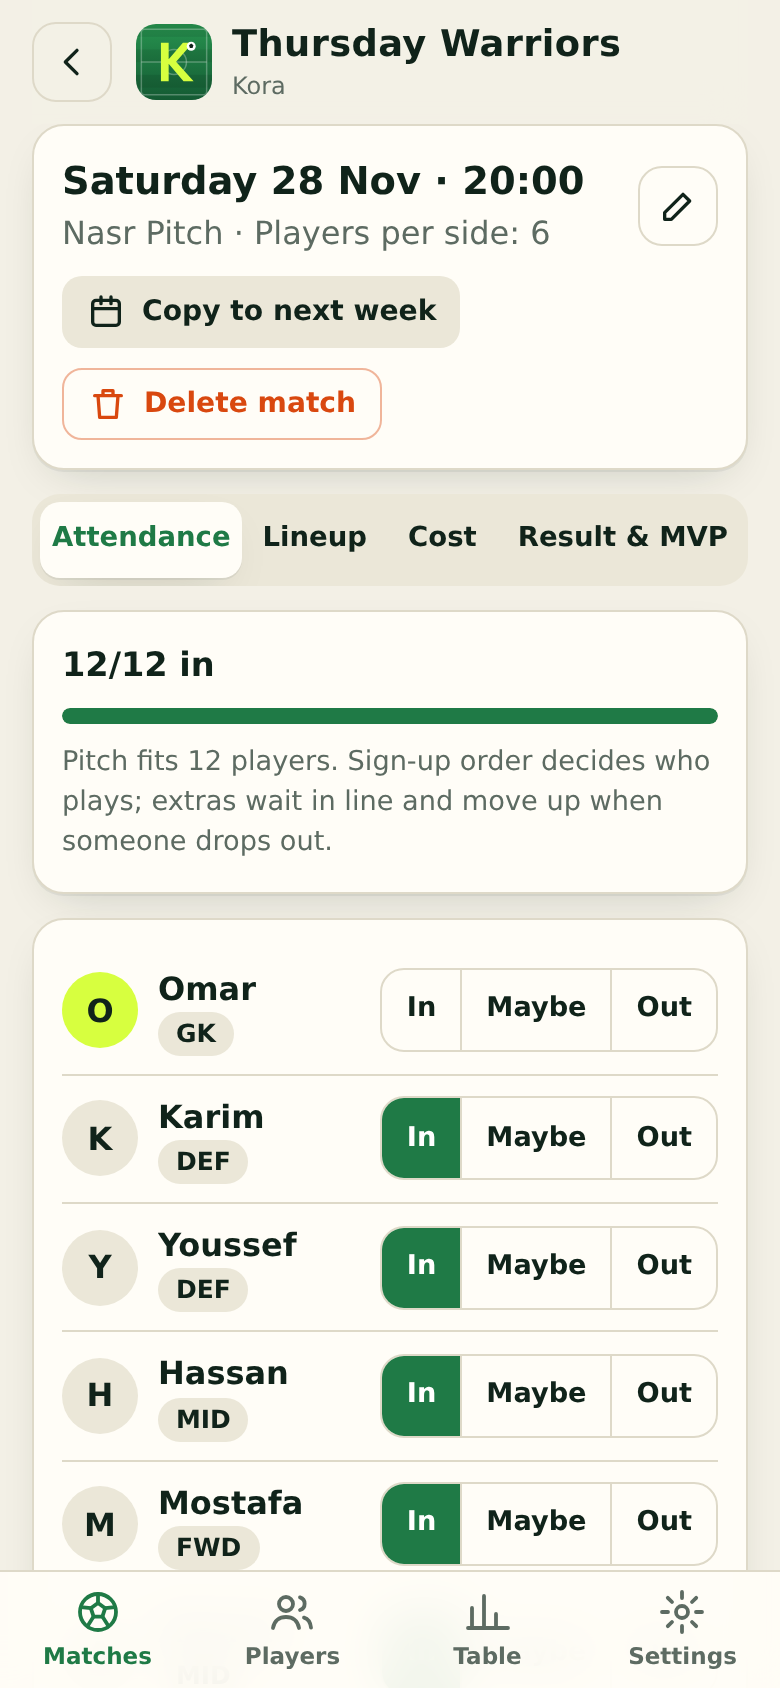
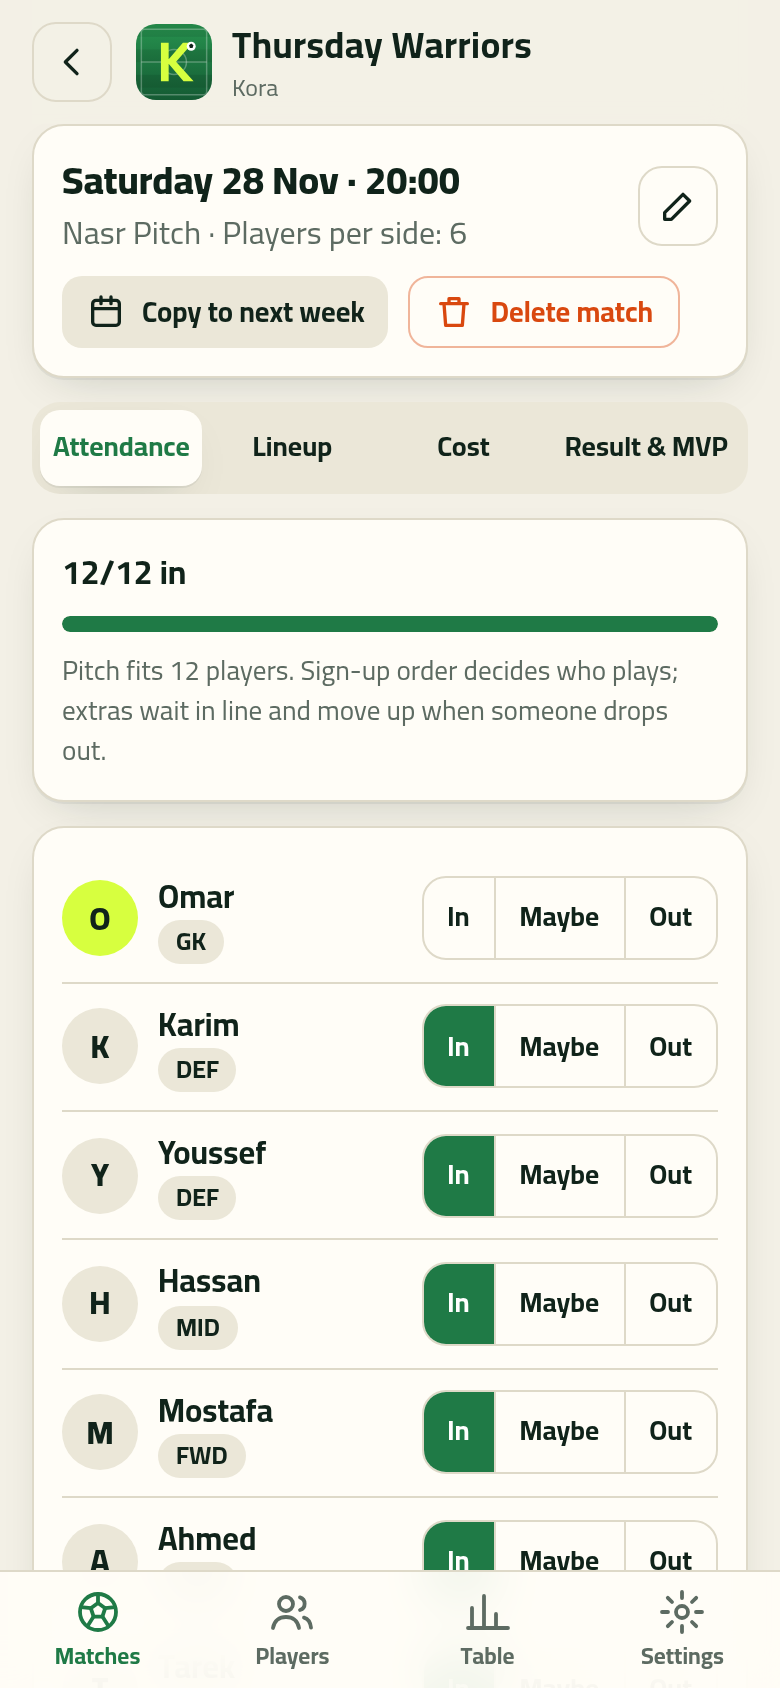
Round 2: self-hosted Cairo fonts, bad-input hardening, import sanitising, WhatsApp/CSV fixes, tests, fresh screenshots

Changed region(s): [[0.0308, 0.0924, 0.9538, 1.0], [0.3077, 0.0, 0.8, 0.0616], [0.3077, 0.955, 0.4308, 0.9858]]

diff --git a/docs/app.js b/docs/app.js
@@ -41,6 +41,7 @@
     table: '<path d="M4 20V10M10 20V4M16 20v-7M22 20H2"/>',
     gear: '<circle cx="12" cy="12" r="3"/><path d="M12 2v3M12 19v3M2 12h3M19 12h3M4.9 4.9L7 7M17 17l2.1 2.1M4.9 19.1L7 17M17 7l2.1-2.1"/>',
     plus: '<path d="M12 5v14M5 12h14"/>', back: '<path d="M15 5l-7 7 7 7"/>', trash: '<path d="M4 7h16M9 7V4h6v3M6 7l1 13h10l1-13"/>',
+    share: '<circle cx="6" cy="12" r="2.5"/><circle cx="18" cy="6" r="2.5"/><circle cx="18" cy="18" r="2.5"/><path d="M8.2 11l7.6-4M8.2 13l7.6 4"/>',
     edit: '<path d="M4 20h4L19 9l-4-4L4 16z"/>', copy: '<rect x="8" y="8" width="12" height="12" rx="2"/><path d="M16 8V5a1 1 0 00-1-1H5a1 1 0 00-1 1v10a1 1 0 001 1h3"/>',
     swap: '<path d="M7 7h12l-3-3M17 17H5l3 3"/>', check: '<path d="M5 12l5 5 9-10"/>', cal: '<rect x="4" y="5" width="16" height="15" rx="2"/><path d="M4 10h16M9 3v4M15 3v4"/>'
   };
@@ -57,6 +58,11 @@
     el.textContent = msg; el.hidden = false;
     clearTimeout(toast._t);
     toast._t = setTimeout(function () { el.hidden = true; }, 2600);
+  }
+  function shareWa(text) {
+    const url = 'https://wa.me/?text=' + encodeURIComponent(text);
+    window.__lastWa = url;
+    const w = window.open(url, '_blank', 'noopener'); if (!w) location.href = url;
   }
   function copyText(text) {
     const done = function () { toast(t('copied')); };
@@ -173,7 +179,7 @@
       '<div class="row">' + (a.waitlist.length ? '<span class="chip warn">' + t('waitlistN', { n: a.waitlist.length }) + '</span>' : '') + (a.maybe.length ? '<span class="chip">' + t('maybeN', { n: a.maybe.length }) + '</span>' : '') + '</div></div>' +
       '<div class="bar" style="margin:10px 0"><i style="width:' + pct + '%"></i></div><p class="muted small" style="margin:0">' + t('capacityNote', { cap: a.capacity }) + '</p></div>' +
       '<div class="card">' + (S.players.length ? '<div class="plist">' + rows + guests + '</div>' : '<p class="muted">' + t('noPlayers') + '</p><a class="btn" href="#/players">' + t('addPlayer') + '</a>') + '</div>' +
-      '<div class="row wrap"><button class="btn soft" data-act="guest-add" data-id="' + m.id + '">' + ic('plus') + t('addGuest') + '</button><button class="btn ghost" data-act="copy-invite" data-id="' + m.id + '">' + ic('copy') + t('copyInvite') + '</button></div>';
+      '<div class="row wrap"><button class="btn soft" data-act="guest-add" data-id="' + m.id + '">' + ic('plus') + t('addGuest') + '</button><button class="btn ghost" data-act="copy-invite" data-id="' + m.id + '">' + ic('copy') + t('copyInvite') + '</button><button class="btn ghost" data-act="wa-invite" data-id="' + m.id + '">' + ic('share') + t('sendWa') + '</button></div>';
   }
 
   function teamName(k) { return k === 'A' ? t('teamA') : t('teamB'); }
@@ -222,7 +228,7 @@
       return '<div class="card"><div class="row between"><div class="row"><span class="tdot" style="background:' + (k === 'A' ? '#fff' : '#ffb703') + '"></span><h2 style="margin:0">' + teamName(k) + '</h2></div><span class="chip">' + t('total', { n: strength(k) }) + '</span></div>' +
         (L.hasGK ? '' : '<p class="muted small" style="margin:6px 0 0">' + t('noKeeper') + '</p>') + '<div class="plist" style="margin-top:6px">' + rows + '</div></div>';
     };
-    return '<div class="pitchwrap">' + pitchSvg(m) + '</div><div class="row wrap" style="margin-bottom:12px"><button class="btn" data-act="teams-reshuffle" data-id="' + m.id + '">' + ic('swap') + t('reshuffle') + '</button><button class="btn ghost" data-act="copy-lineup" data-id="' + m.id + '">' + ic('copy') + t('copyLineup') + '</button></div>' +
+    return '<div class="pitchwrap">' + pitchSvg(m) + '</div><div class="row wrap" style="margin-bottom:12px"><button class="btn" data-act="teams-reshuffle" data-id="' + m.id + '">' + ic('swap') + t('reshuffle') + '</button><button class="btn ghost" data-act="copy-lineup" data-id="' + m.id + '">' + ic('copy') + t('copyLineup') + '</button><button class="btn ghost" data-act="wa-lineup" data-id="' + m.id + '">' + ic('share') + t('sendWa') + '</button></div>' +
       '<p class="muted small">' + t('teamsHelp') + '</p><div class="teams">' + card('A') + card('B') + '</div>';
   }
 
@@ -252,7 +258,7 @@
       '<div class="card"><div class="row between"><div><div class="muted small">' + t('totalCost') + '</div><b style="font-size:1.4rem">' + money(tot) + '</b></div><div style="text-align:end"><div class="muted small">' + t('perHead') + '</div><b style="font-size:1.4rem">' + (sh.ids.length ? money(sh.split.per[0]) : '—') + '</b></div></div>' +
       (sh.split.surplus ? '<p class="muted small" style="margin:8px 0 0">' + t('surplus', { n: money(sh.split.surplus) }) + '</p>' : '') + '</div>' +
       '<div class="card">' + (sh.ids.length ? '<div class="row between small" style="margin-bottom:6px"><b>' + t('collected', { a: money(sh.paid), b: money(sh.split.collected) }) + '</b><span class="chip ' + (sh.outstanding ? 'warn' : 'ok') + '">' + (sh.outstanding ? t('outstanding', { n: money(sh.outstanding) }) : t('allPaid')) + '</span></div><div class="bar"><i style="width:' + pct + '%"></i></div><div class="plist" style="margin-top:8px">' + rows + '</div>' +
-        '<button class="btn ghost" style="margin-top:10px" data-act="copy-pay" data-id="' + m.id + '"' + (sh.outstanding ? '' : ' disabled') + '>' + ic('copy') + t('copyPay') + '</button>' : '<p class="muted">' + t('noParticipants') + '</p>') + '</div>';
+        '<button class="btn ghost" style="margin-top:10px" data-act="copy-pay" data-id="' + m.id + '"' + (sh.outstanding ? '' : ' disabled') + '>' + ic('copy') + t('copyPay') + '</button><button class="btn ghost" data-act="wa-pay" data-id="' + m.id + '"' + (sh.outstanding ? '' : ' disabled') + '>' + ic('share') + t('sendWa') + '</button>' : '<p class="muted">' + t('noParticipants') + '</p>') + '</div>';
   }
 
   function secResult(m) {
@@ -439,6 +445,9 @@
     rsvp: function (d) { const m = currentMatch(); const cur = m.rsvp[d.id]; C.setRsvp(m, d.id, cur === d.v ? 'none' : d.v); rerender(); },
     'guest-add': function (d) { guestForm(getMatch(d.id)); },
     'guest-del': function (d) { C.removeGuest(currentMatch(), d.id); rerender(); },
+    'wa-invite': function (d) { shareWa(inviteText(getMatch(d.id))); },
+    'wa-lineup': function (d) { shareWa(lineupText(getMatch(d.id))); },
+    'wa-pay': function (d) { shareWa(payText(getMatch(d.id))); },
     'copy-invite': function (d) { copyText(inviteText(getMatch(d.id))); },
     'teams-make': function (d) { C.autoTeams(getMatch(d.id), S, false); rerender(); },
     'teams-reshuffle': function (d) { C.autoTeams(getMatch(d.id), S, true); rerender(); },

diff --git a/docs/i18n.js b/docs/i18n.js
@@ -12,7 +12,7 @@ window.KORA_I18N = {
     rsvpIn: 'In', rsvpMaybe: 'Maybe', rsvpOut: 'Out', rsvpNone: 'No reply',
     waitlist: 'Waitlist #{n}', addGuest: 'Add guest', guestName: 'Guest name', guest: 'Guest', removeGuest: 'Remove guest',
     capacityNote: 'Pitch fits {cap} players. Sign-up order decides who plays; extras wait in line and move up when someone drops out.',
-    copyInvite: 'Copy invite message', copied: 'Copied', copyFailed: 'Could not copy. Select the text manually.',
+    copyInvite: 'Copy invite message', sendWa: 'Send on WhatsApp', copied: 'Copied', copyFailed: 'Could not copy. Select the text manually.',
     inviteMsg: '⚽ {group}football on {date} at {time}{venue}\nPitch: {cost} per player (est.)\nReply IN / OUT. {cap} spots, first come first served.',
     needPlayers: 'At least 2 confirmed players are needed to make teams.', makeTeams: 'Make balanced teams', reshuffle: 'Reshuffle', 
     teamA: 'White', teamB: 'Amber', total: 'Strength {n}', moveTeam: 'Move to the other team', noKeeper: 'No keeper', 
@@ -57,7 +57,7 @@ window.KORA_I18N = {
     rsvpIn: 'جاي', rsvpMaybe: 'يمكن', rsvpOut: 'مش جاي', rsvpNone: 'لسه ماردّش',
     waitlist: 'انتظار رقم {n}', addGuest: 'ضيف جديد', guestName: 'اسم الضيف', guest: 'ضيف', removeGuest: 'شيل الضيف',
     capacityNote: 'الملعب بيشيل {cap} لاعب. الأسبق في التسجيل بيلعب، والباقي في الانتظار ويدخل لو حد انسحب.',
-    copyInvite: 'انسخ رسالة الدعوة', copied: 'اتنسخ', copyFailed: 'معرفتش أنسخ. حدّد النص بإيدك.',
+    copyInvite: 'انسخ رسالة الدعوة', sendWa: 'ابعت على واتساب', copied: 'اتنسخ', copyFailed: 'معرفتش أنسخ. حدّد النص بإيدك.',
     inviteMsg: '⚽ {group}كورة يوم {date} الساعة {time}{venue}\nالملعب: {cost} على كل واحد (تقريبًا)\nردّوا جاي / مش جاي. {cap} أماكن، الأسبق يحجز.',
     needPlayers: 'محتاجين لاعبين اتنين مؤكدين على الأقل علشان نقسم الفرق.', makeTeams: 'قسّم فرق متوازنة', reshuffle: 'اخلط تاني',
     teamA: 'الأبيض', teamB: 'الأصفر', total: 'القوة {n}', moveTeam: 'انقله للفريق التاني', noKeeper: 'مفيش حارس',

diff --git a/docs/fonts/fonts.css b/docs/fonts/fonts.css
@@ -1,0 +1,5 @@
+/* Self-hosted Cairo (SIL OFL), variable weight, Google Fonts latin + arabic subsets. */
+@font-face{font-family:'Cairo';font-style:normal;font-weight:200 1000;font-display:swap;src:url(Cairo-arabic.woff2) format('woff2');unicode-range:U+0600-06FF, U+0750-077F, U+0870-0891, U+0897-08E1, U+08E3-08FF, U+200C-200E, U+2010-2011, U+204F, U+2E41, U+FB50-FDFF, U+FE70-FE74, U+FE76-FEFC, U+102E0-102FB, U+10E60-10E7E, U+10EC2-10EC7, U+10EC9-10EEE, U+10EF0-10EFF, U+1EE00-1EE03, U+1EE05-1EE1F, U+1EE21-1EE22, U+1EE24, U+1EE27, U+1EE29-1EE32, U+1EE34-1EE37, U+1EE39, U+1EE3B, U+1EE42, U+1EE47, U+1EE49, U+1EE4B, U+1EE4D-1EE4F, U+1EE51-1EE52, U+1EE54, U+1EE57, U+1EE59, U+1EE5B, U+1EE5D, U+1EE5F, U+1EE61-1EE62, U+1EE64, U+1EE67-1EE6A, U+1EE6C-1EE72, U+1EE74-1EE77, U+1EE79-1EE7C, U+1EE7E, U+1EE80-1EE89, U+1EE8B-1EE9B, U+1EEA1-1EEA3, U+1EEA5-1EEA9, U+1EEAB-1EEBB, U+1EEF0-1EEF1;}
+@font-face{font-family:'Cairo';font-style:normal;font-weight:200 1000;font-display:swap;src:url(Cairo-latin.woff2) format('woff2');unicode-range:U+0000-00FF, U+0131, U+0152-0153, U+02BB-02BC, U+02C6, U+02DA, U+02DC, U+0304, U+0308, U+0329, U+2000-206F, U+20AC, U+2122, U+2191, U+2193, U+2212, U+2215, U+FEFF, U+FFFD;}
+/* Arabic glyphs only, for serif stacks that keep a Latin serif face */
+@font-face{font-family:'CairoAr';font-style:normal;font-weight:200 1000;font-display:swap;src:url(Cairo-arabic.woff2) format('woff2');unicode-range:U+0600-06FF, U+0750-077F, U+0870-0891, U+0897-08E1, U+08E3-08FF, U+200C-200E, U+2010-2011, U+204F, U+2E41, U+FB50-FDFF, U+FE70-FE74, U+FE76-FEFC, U+102E0-102FB, U+10E60-10E7E, U+10EC2-10EC7, U+10EC9-10EEE, U+10EF0-10EFF, U+1EE00-1EE03, U+1EE05-1EE1F, U+1EE21-1EE22, U+1EE24, U+1EE27, U+1EE29-1EE32, U+1EE34-1EE37, U+1EE39, U+1EE3B, U+1EE42, U+1EE47, U+1EE49, U+1EE4B, U+1EE4D-1EE4F, U+1EE51-1EE52, U+1EE54, U+1EE57, U+1EE59, U+1EE5B, U+1EE5D, U+1EE5F, U+1EE61-1EE62, U+1EE64, U+1EE67-1EE6A, U+1EE6C-1EE72, U+1EE74-1EE77, U+1EE79-1EE7C, U+1EE7E, U+1EE80-1EE89, U+1EE8B-1EE9B, U+1EEA1-1EEA3, U+1EEA5-1EEA9, U+1EEAB-1EEBB, U+1EEF0-1EEF1;}

diff --git a/tests/e2e.js b/tests/e2e.js
@@ -70,6 +70,10 @@ const log = (m) => console.log(`  ✓ ${++step}. ${m}`);
     await click('[data-act="guest-del"]'); // removes first guest, waitlisted promoted
     assert.doesNotMatch(await text(), /on the waitlist/); log('removing a guest promotes the waitlist');
     await click('[data-act="copy-invite"]');
+    await page.evaluate(() => { window.open = (u) => { window.__opened = u; return {}; }; });
+    await page.$eval('[data-act="wa-invite"]', e => e.click()); // the copy toast can overlap the button at the bottom
+    await page.waitForFunction(() => /^https:\/\/wa\.me\/\?text=/.test(window.__opened || '') && /football/.test(decodeURIComponent(window.__opened)));
+    log('Send on WhatsApp opens wa.me with the invite text');
     await page.waitForFunction(() => window.__lastCopied && /football/.test(window.__lastCopied));
     const inv = await page.evaluate(() => window.__lastCopied);
     assert.match(inv, /Thursday Warriors/); assert.match(inv, /12 spots/); log('invite message is copied with the group name');
@@ -152,7 +156,7 @@ const log = (m) => console.log(`  ✓ ${++step}. ${m}`);
     await nav('#/'); await act('match-new', '.btn');
     await page.waitForSelector('#modal input[name=date]');
     await page.$eval('#modal input[name=date]', e => { e.value = '2030-01-10'; });
-    await page.type('#modal input[name=venue]', 'Test Pitch'); await click('#modal button[type=submit]');
+    await page.$eval('#modal input[name=venue]', e => { e.focus(); e.value = 'Test Pitch'; }); await click('#modal button[type=submit]');
     await page.waitForSelector('.seg, .card');
     assert.match(await page.evaluate(() => location.hash), /#\/m\/.+\/att/); log('new match created and opened');
     await act('match-dup');

diff --git a/docs/sw.js b/docs/sw.js
@@ -1,5 +1,5 @@
-const CACHE = 'kora-v1';
-const FILES = ['./', 'index.html', 'styles.css', 'core.js', 'i18n.js', 'app.js', 'logo.svg', 'manifest.webmanifest', 'icon-512.png'];
+const CACHE = 'kora-v2';
+const FILES = ['fonts/fonts.css','fonts/Cairo-arabic.woff2','fonts/Cairo-latin.woff2','./', 'index.html', 'styles.css', 'core.js', 'i18n.js', 'app.js', 'logo.svg', 'manifest.webmanifest', 'icon-512.png'];
 self.addEventListener('install', e => { e.waitUntil(caches.open(CACHE).then(c => c.addAll(FILES)).then(() => self.skipWaiting())); });
 self.addEventListener('activate', e => { e.waitUntil(caches.keys().then(ks => Promise.all(ks.filter(k => k !== CACHE).map(k => caches.delete(k)))).then(() => self.clients.claim())); });
 // network first so updates show up, cache as the offline fallback

diff --git a/docs/styles.css b/docs/styles.css
@@ -3,7 +3,7 @@
   --bg:#f3f0e6; --card:#fffdf7; --ink:#10231a; --muted:#5d6b62; --line:#ded9c8; --soft:#ebe7d8;
   --lime:#d7ff3f; --warn:#d9480f; --ok:#1f7a46; --shadow:0 1px 0 rgba(16,35,26,.06),0 8px 24px -12px rgba(16,35,26,.25);
   --teamA:#ffffff; --teamB:#ffb703; --radius:16px;
-  --font: system-ui,-apple-system,"Segoe UI",Roboto,"Noto Sans Arabic","Noto Naskh Arabic",Tahoma,sans-serif;
+  --font: "Cairo", system-ui,-apple-system,"Segoe UI",Roboto,"Noto Sans Arabic","Noto Naskh Arabic",Tahoma,sans-serif;
 }
 :root[data-theme=dark]{
   --bg:#0c1712; --card:#13241b; --ink:#eef3e8; --muted:#9db0a2; --line:#24392d; --soft:#1a2e23; --shadow:0 8px 24px -12px rgba(0,0,0,.6);

diff --git a/docs/index.html b/docs/index.html
@@ -8,6 +8,7 @@
 <meta name="theme-color" content="#1f7a46">
 <link rel="manifest" href="manifest.webmanifest">
 <link rel="icon" href="logo.svg" type="image/svg+xml">
+<link rel="stylesheet" href="fonts/fonts.css">
 <link rel="stylesheet" href="styles.css">
 </head>
 <body>

diff --git a/README.md b/README.md
@@ -63,3 +63,9 @@ The browser test clicks through the whole app on a phone-size screen: demo squad
 ## License
 
 MIT. See [LICENSE](LICENSE).
+
+## Fonts, WhatsApp and limits (round 2)
+
+- Cairo (SIL OFL) is bundled in `docs/fonts/` (woff2) and precached by the service worker.
+- Invite, lineup and payment reminder each have **Send on WhatsApp** next to Copy. It opens WhatsApp's own share screen with the text, so you pick the group. Tested as a generated wa.me link, not against a live WhatsApp account.
+- Data stays in this browser (localStorage). Back up and restore from Settings; restore asks first.
